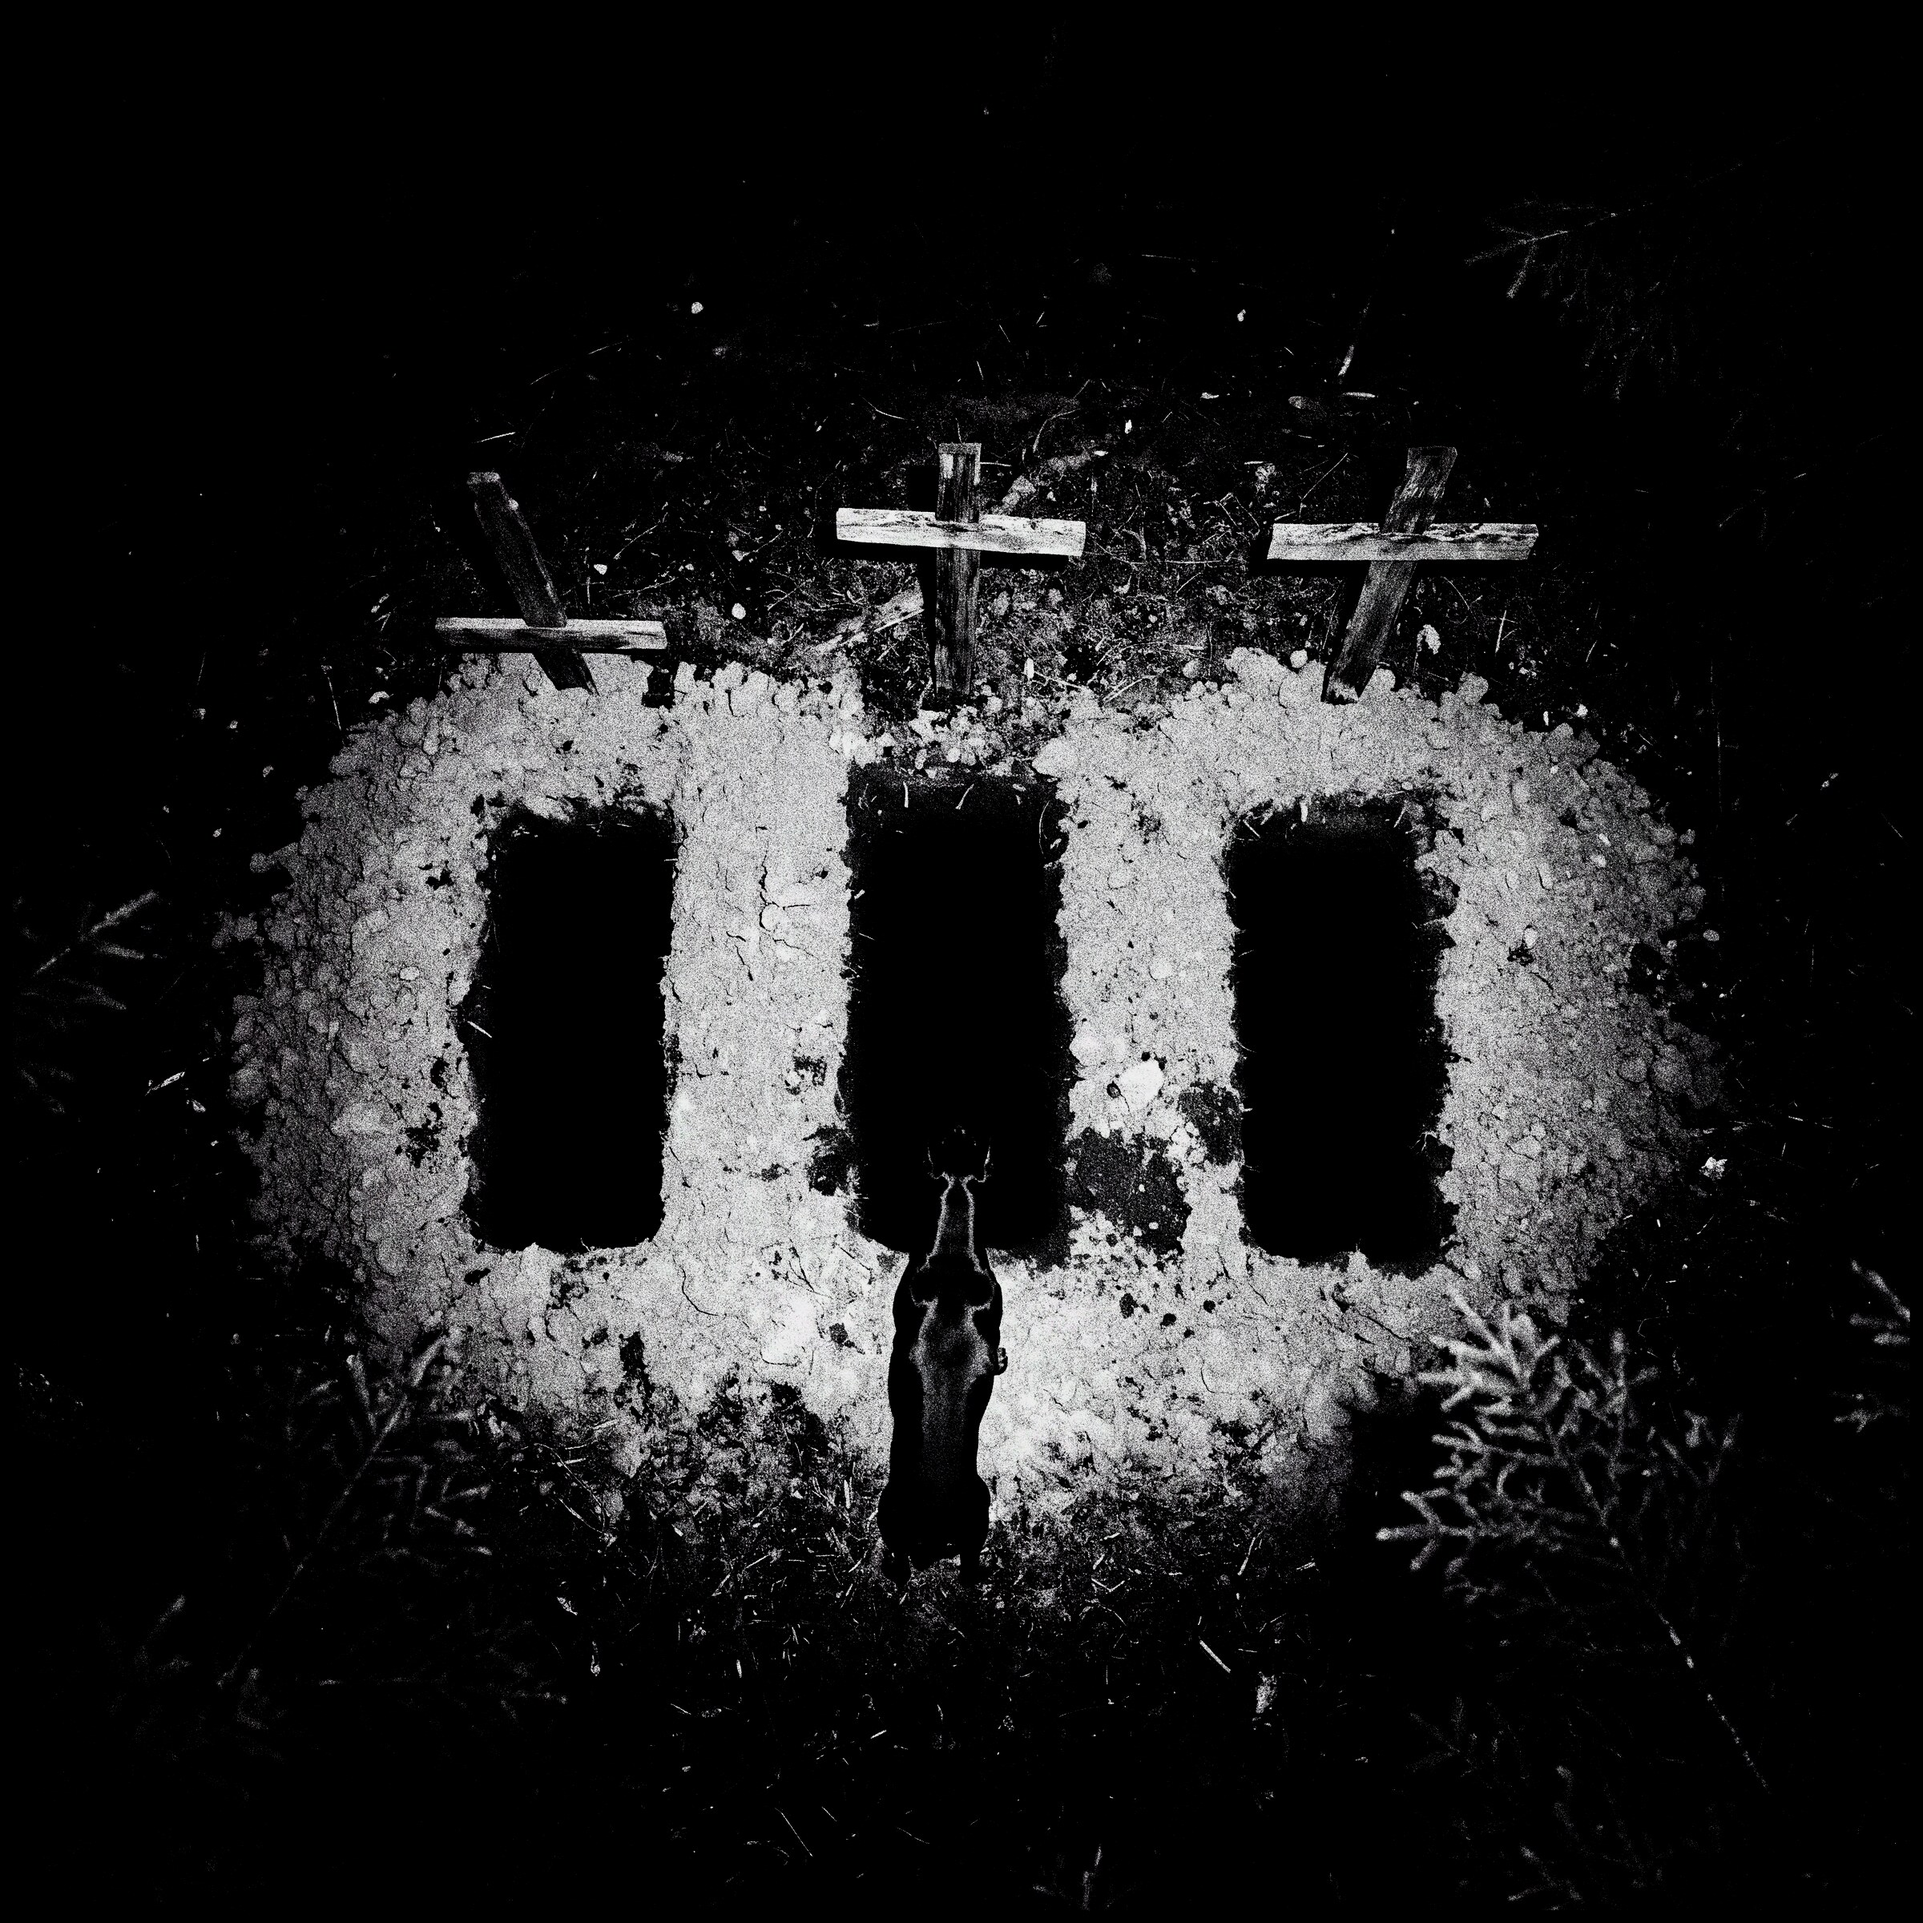
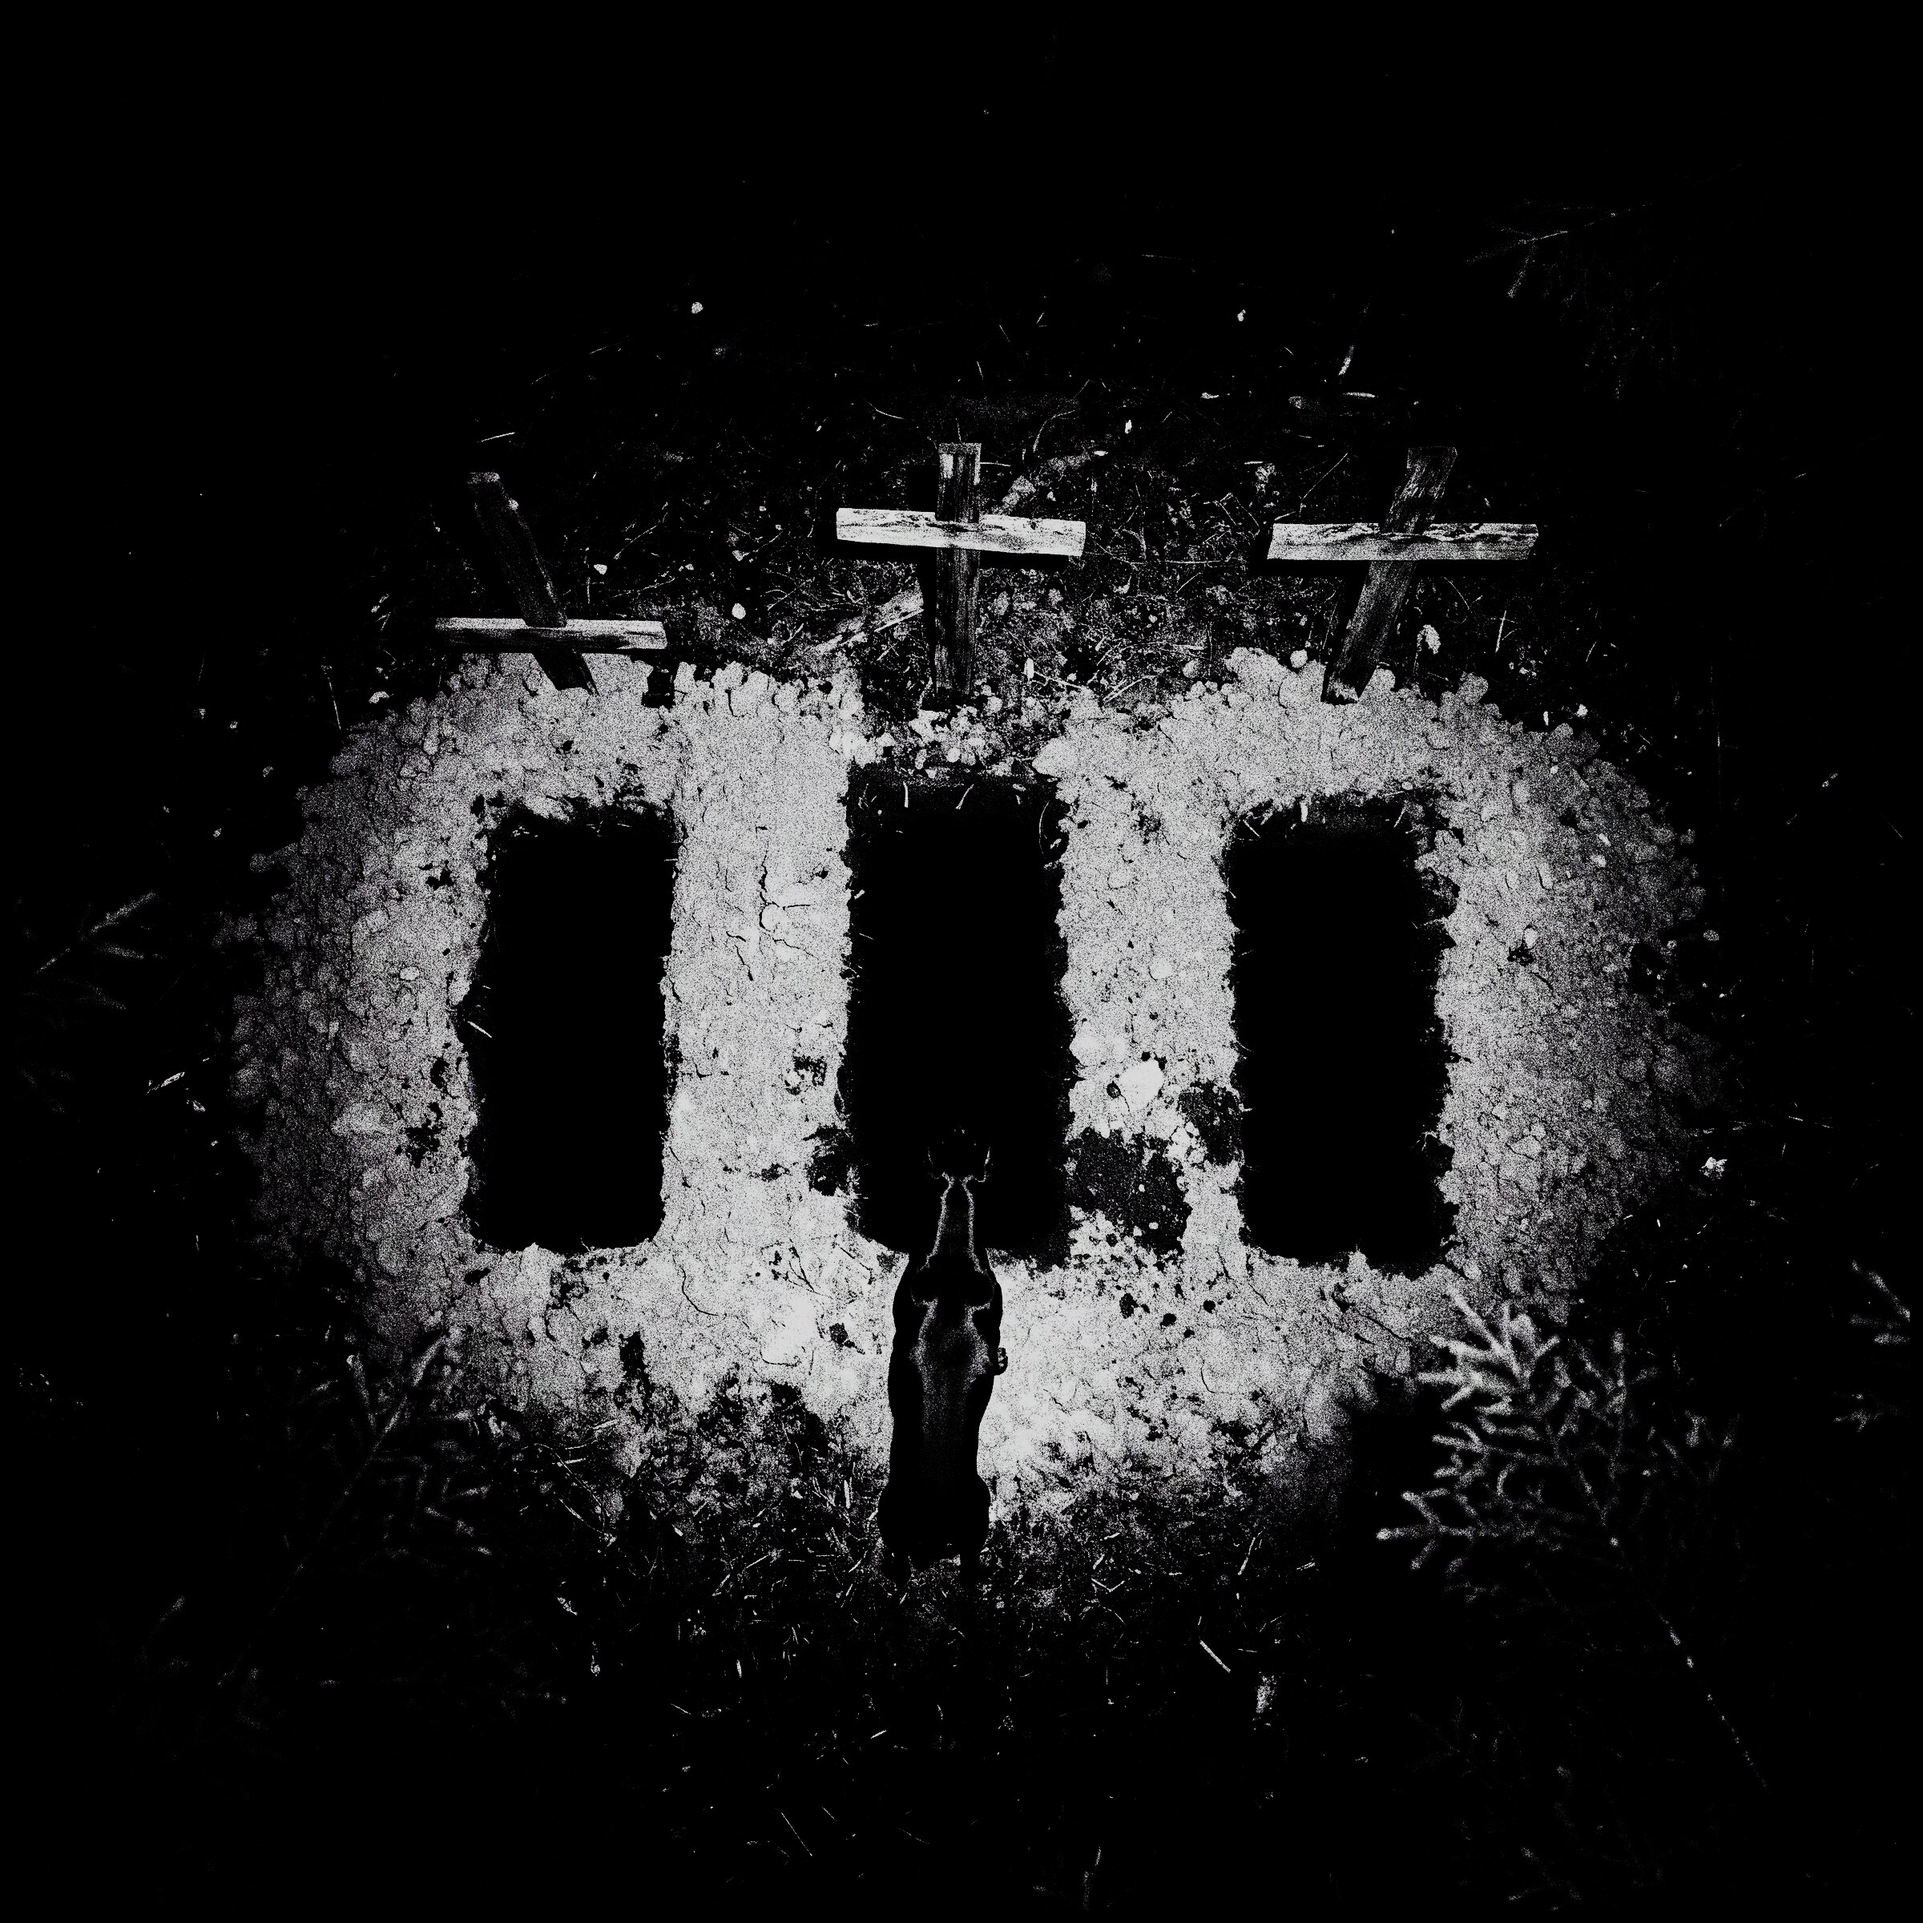
Harder curve on the gravel, slow zoom on landing, no tickets
The lit gravel read as a flat white slab. The hero photo now gets a
steep curve with the highlights held back, so the stones keep their
texture and black gaps while the crosses keep their pale wood. The OG
image is rebuilt from the same photo.

The splash photo now creeps in slowly and evenly (45 s to 1.22x) from
the moment the page opens; the reveal only handles the light.

There are no tickets for Riche Fenix, so the gig line is just the date
and place, and the tickets field is gone from the content and the
event data.

Claude-Session: https://claude.ai/code/session_01DbAwi313ApJtvqViAxbm75

diff --git a/src/styles/global.css b/src/styles/global.css
@@ -326,15 +326,6 @@ h3 {
   font-size: 1rem;
 }
 
-.gig-link {
-  margin-left: 0.3em;
-  border-bottom: 1px solid var(--fg);
-}
-
-.gig-link[href]:hover {
-  border-bottom-color: transparent;
-}
-
 .foot {
   margin-top: 26px;
 }
@@ -391,8 +382,12 @@ h3 {
   opacity: 1;
 }
 
+/* The light opens up, and the camera never stops creeping in. */
 .ready .hero-bg img {
-  animation: reveal 3.6s var(--ease) 0.15s both;
+  transform-origin: 50% 46%;
+  animation:
+    reveal 3.6s var(--ease) 0.15s both,
+    creep 45s linear both;
 }
 
 .ready .hero-logo {
@@ -414,13 +409,21 @@ h3 {
 @keyframes reveal {
   from {
     --r: 0%;
-    transform: scale(1.16);
     filter: brightness(0.3) contrast(1.4);
   }
   to {
     --r: 100%;
-    transform: none;
     filter: none;
+  }
+}
+
+/* A slow zoom on the graves for as long as you stay on the splash. */
+@keyframes creep {
+  from {
+    transform: scale(1);
+  }
+  to {
+    transform: scale(1.22);
   }
 }
 

diff --git a/src/site.ts b/src/site.ts
@@ -33,7 +33,6 @@ export const site = {
     dateLabel: "28 October",
     /** The row disappears from the page after this moment. */
     hideAfter: "2026-10-29T03:00:00.000Z",
-    tickets: TBA,
     map: "https://www.google.com/maps/search/?api=1&query=Riche+Fenix+G%C3%B6tgatan+40+Stockholm",
   },
 

diff --git a/README.md b/README.md
@@ -11,7 +11,6 @@ Everything lives in `src/site.ts`. Links still marked `TBA` render as normal but
 | Where | Field |
 | --- | --- |
 | The Thicket pre-save (becomes "Listen" at release) | `single.link` |
-| Riche Fenix tickets | `live.tickets` |
 | Eat The Sky pre-order LP | `album.preorder` |
 | Eat The Sky pre-save | `album.presave` |
 | Spotify, Apple Music, Instagram, YouTube | `links` |
